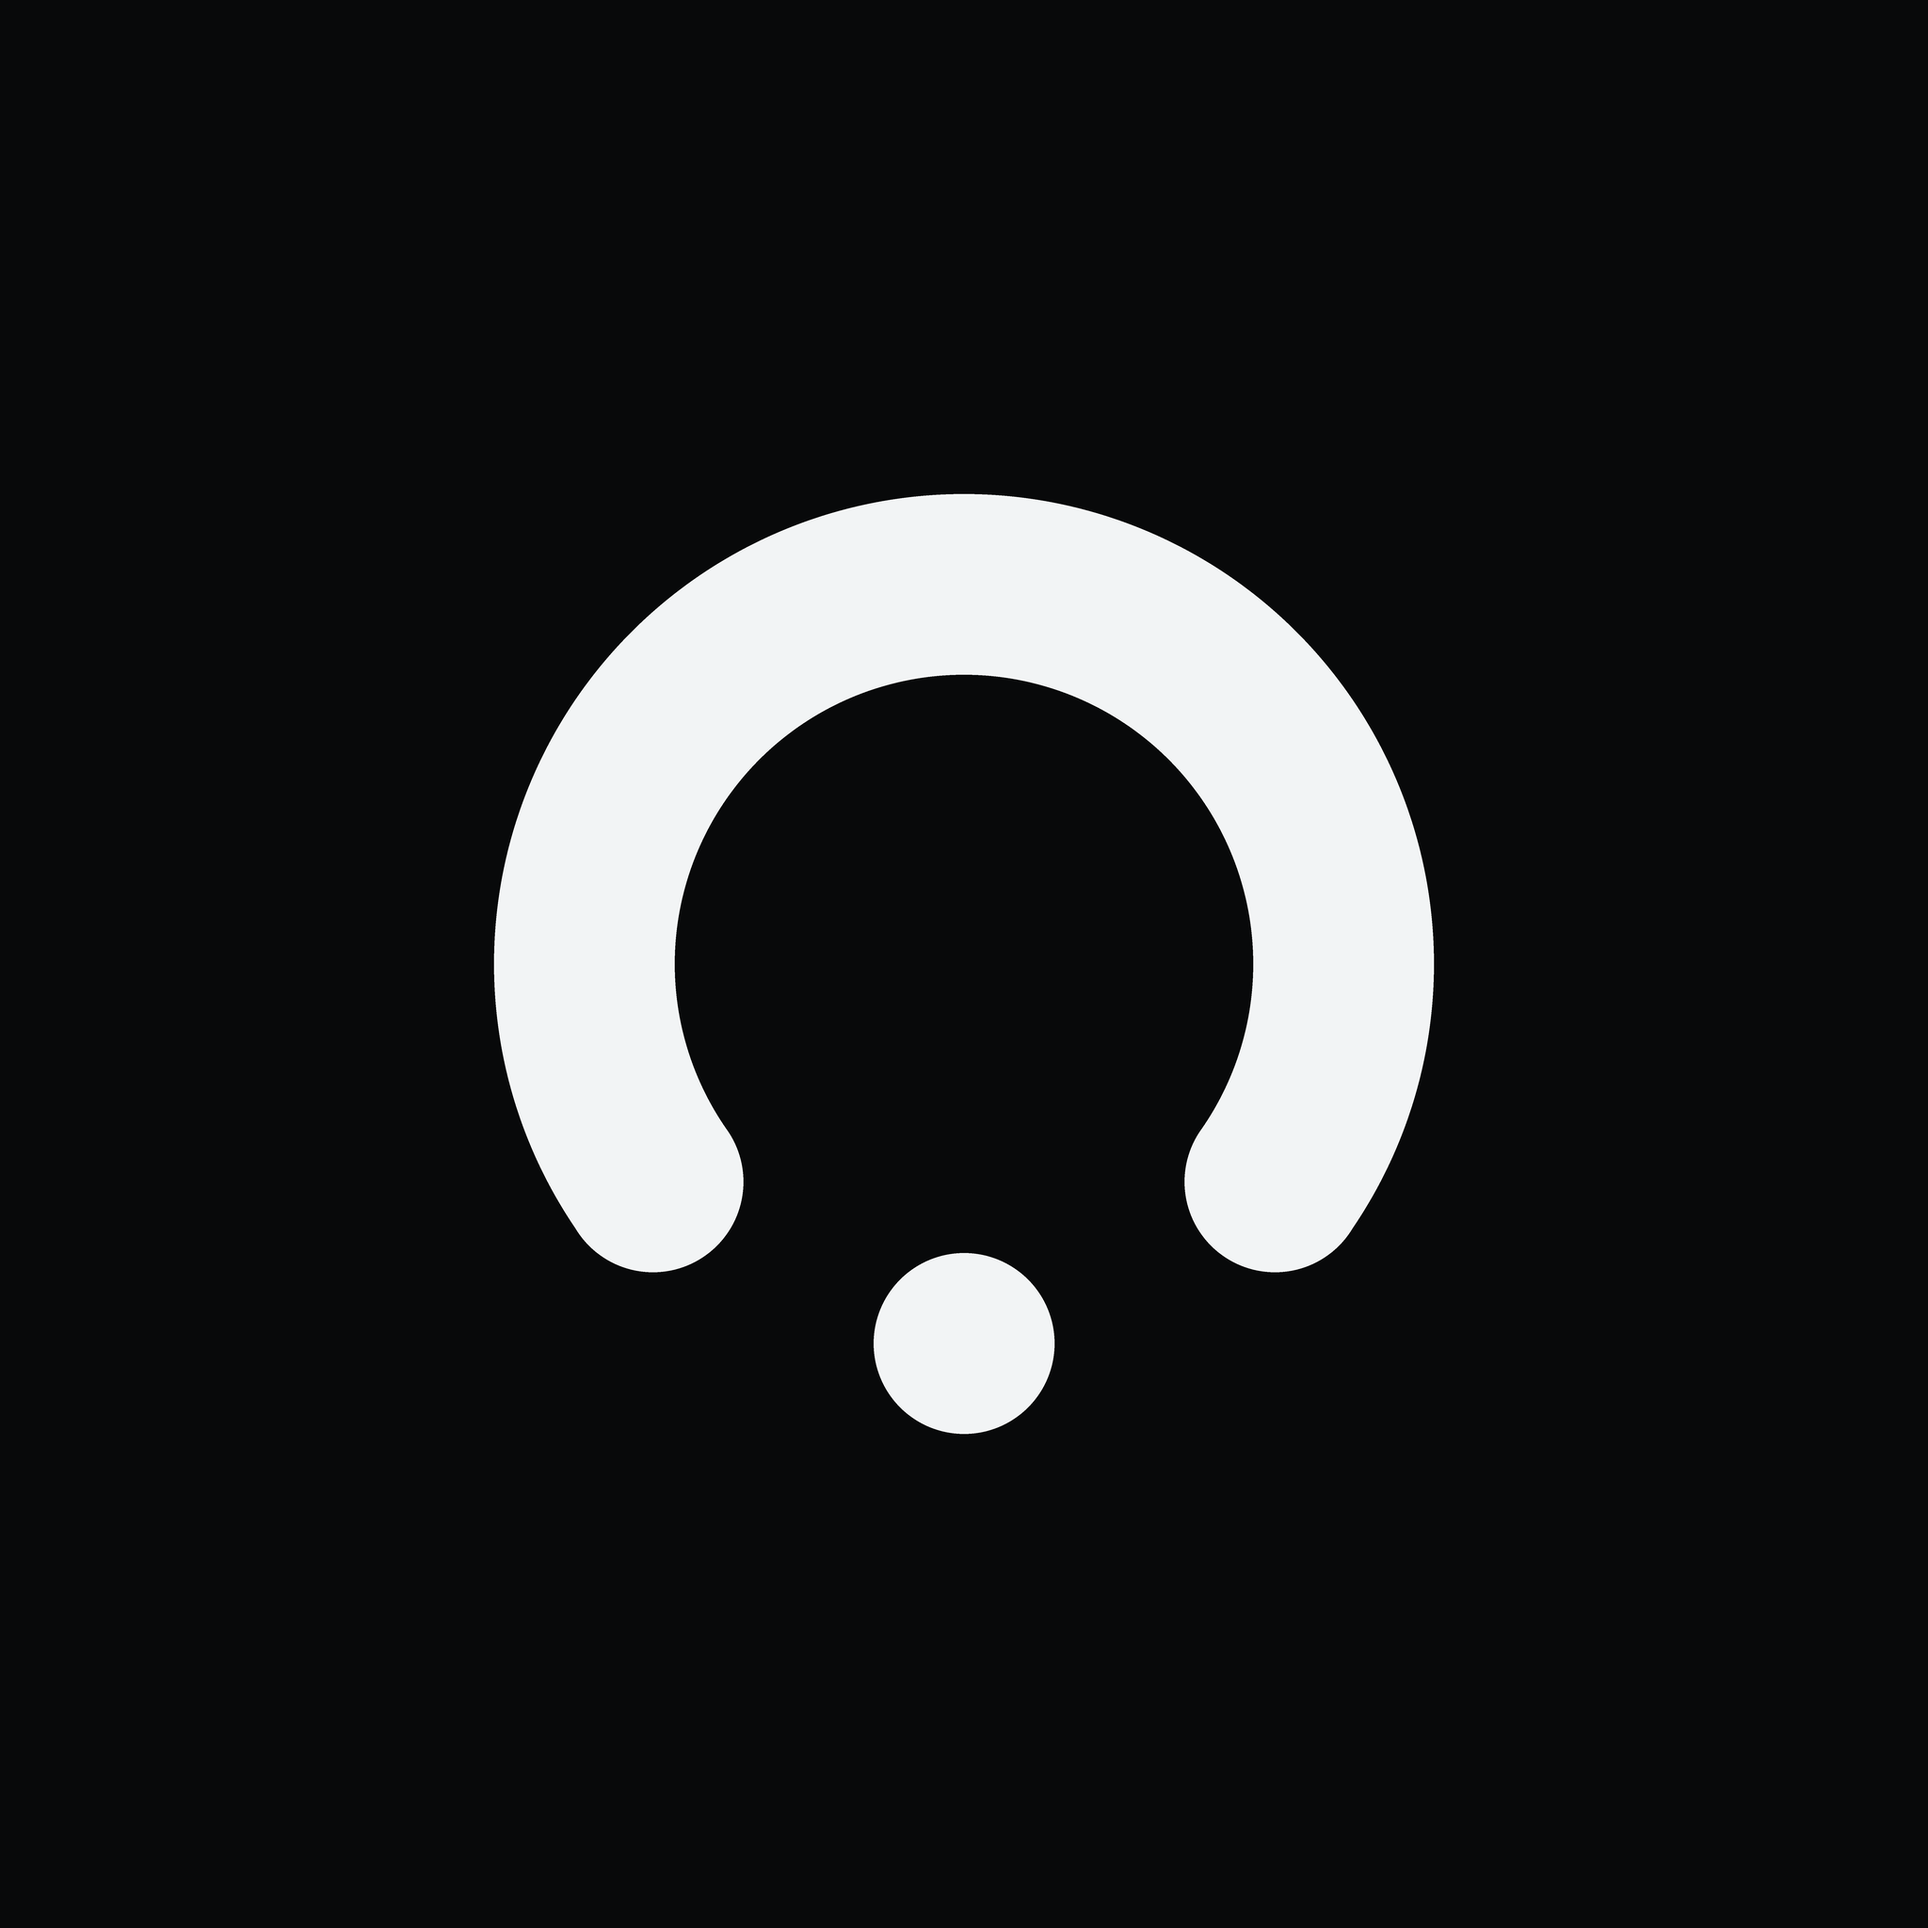
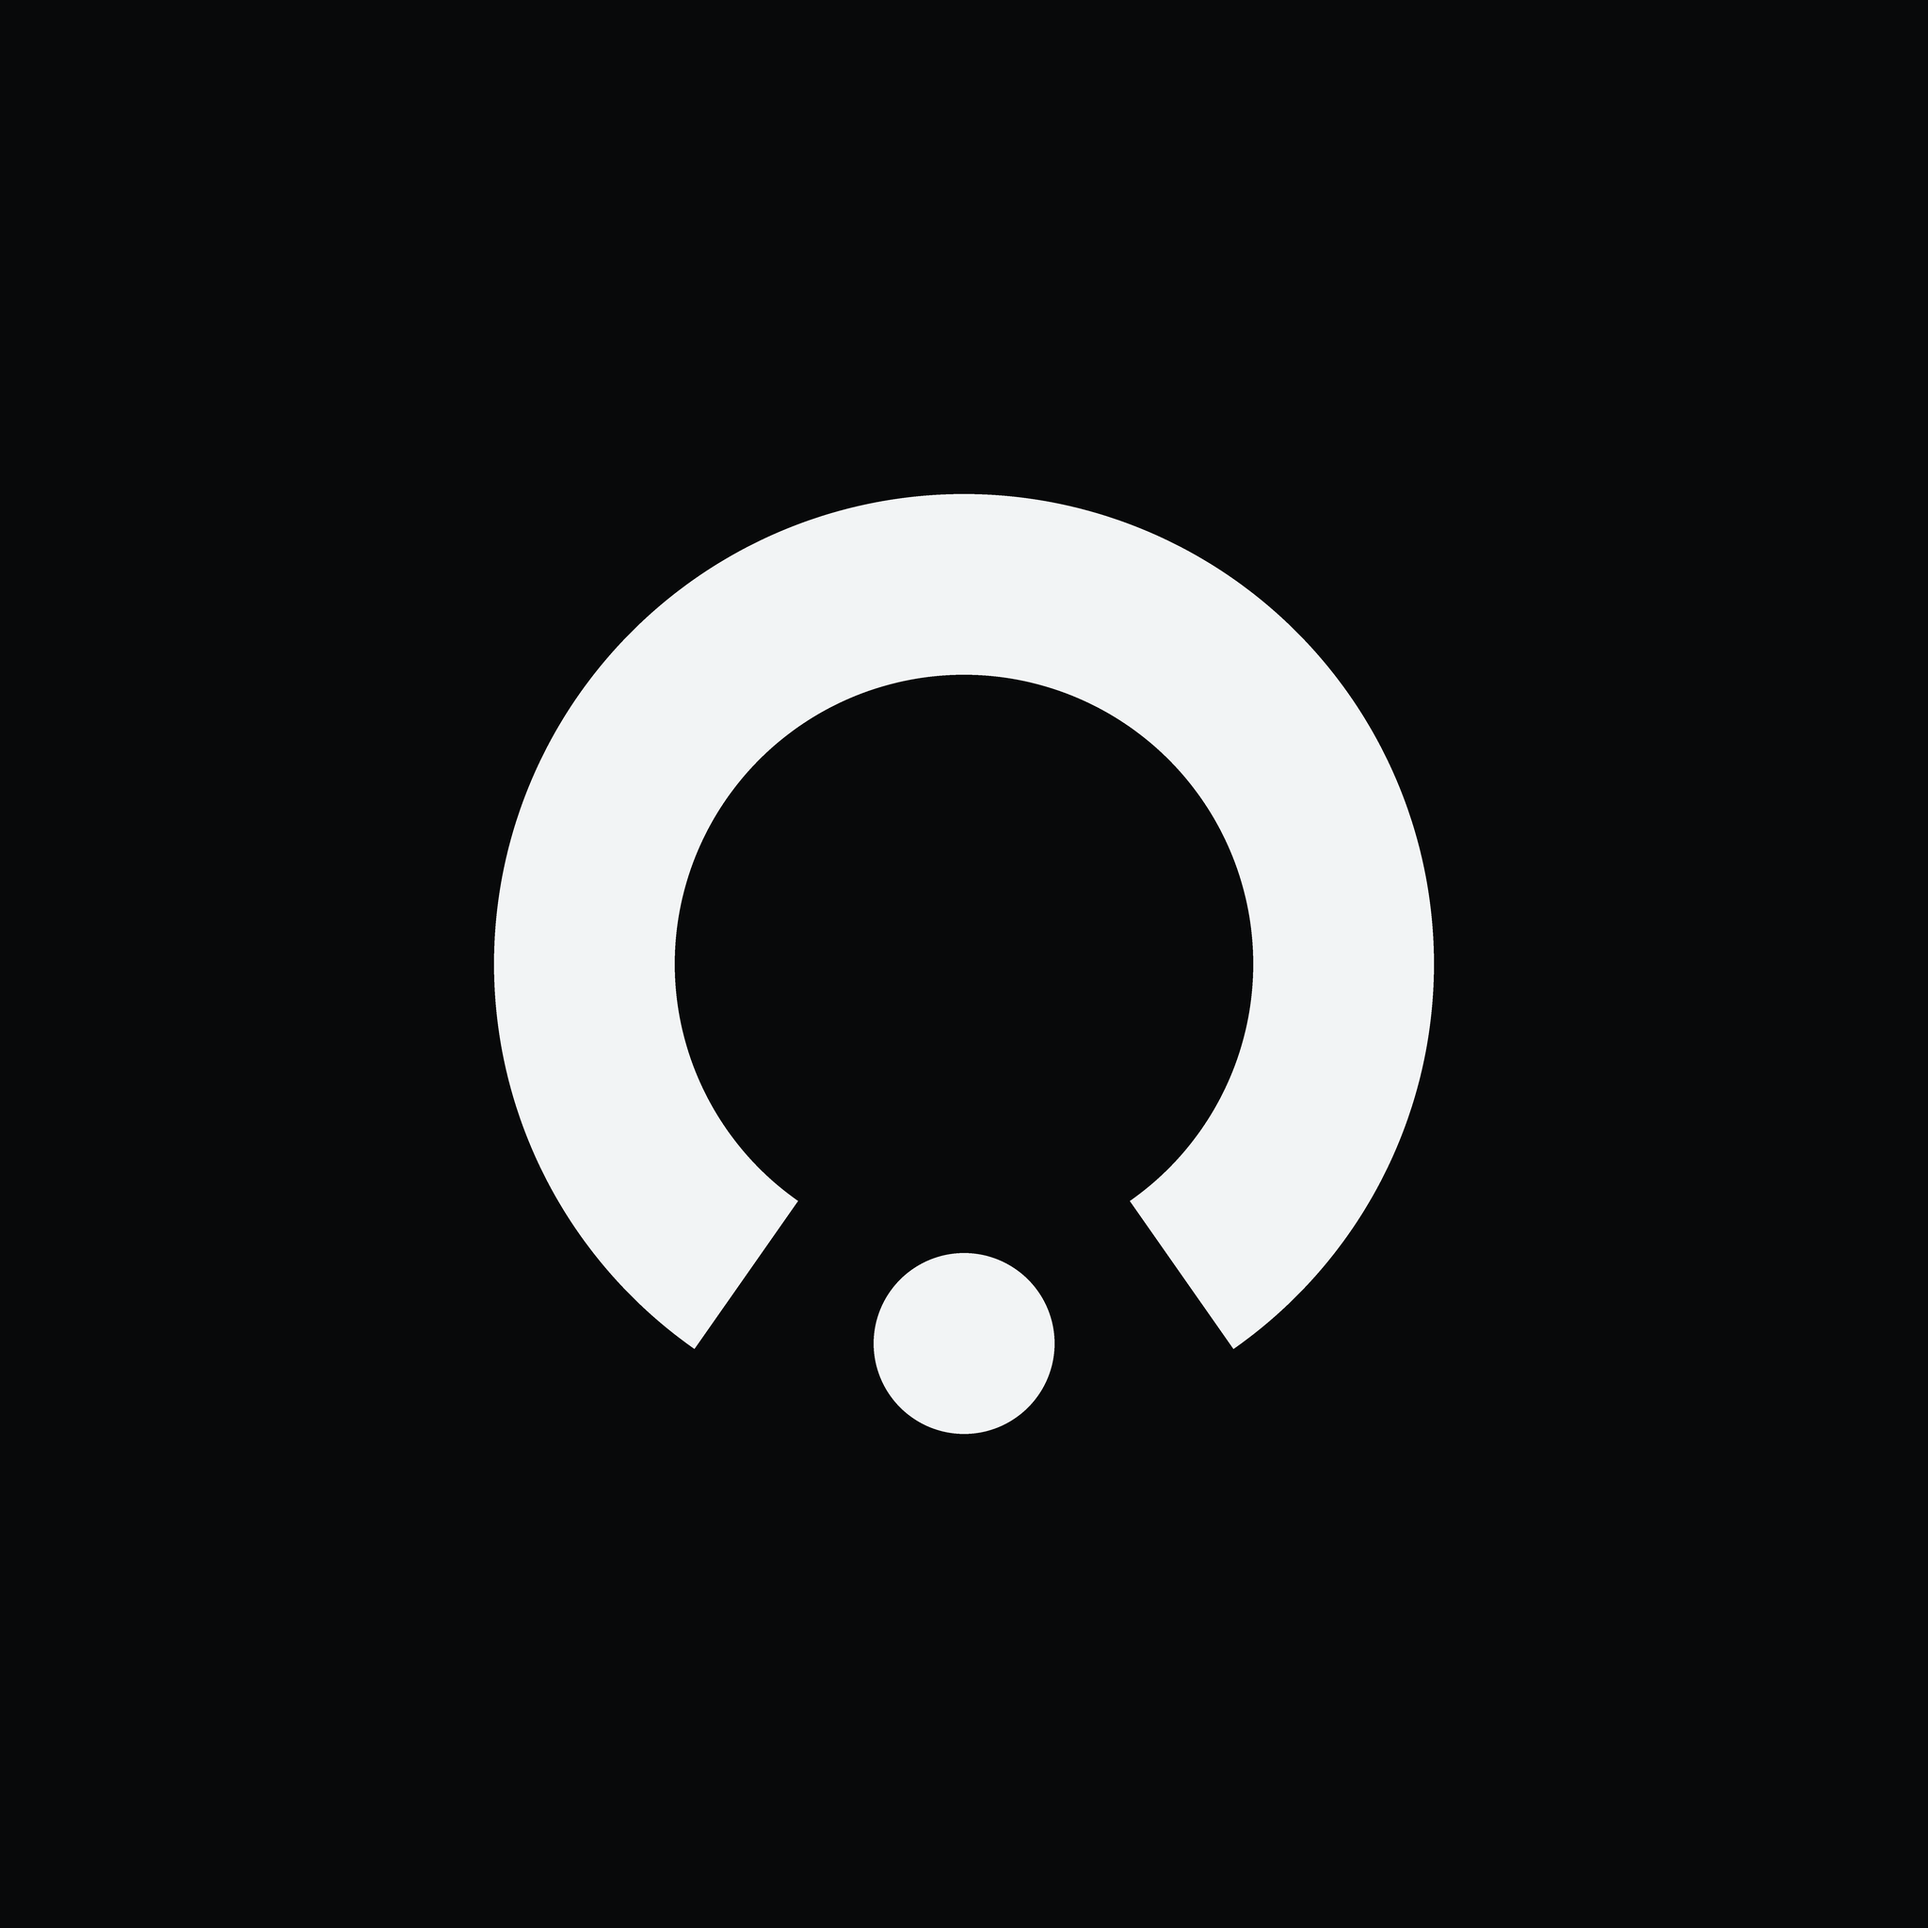
feat(brand): cut the mark's ends square and close the opening a little
The user preferred the look of an earlier raster draft: the ring runs
further round, leaving a 70 degree opening instead of 110, and its ends
are cut straight along the radius rather than rounded. Make that the
mark everywhere: the inline SVG, the browser tab icon, the brand SVGs,
and the redrawn favicon, apple icon, 1024 px square and X avatars.

The dot is unchanged, 7 units clear of each cut end. The rasters match
a browser render of the SVG to 8 of 160,000 pixels.

Changed region(s): [[0.5938, 0.5938, 0.6875, 0.7188], [0.3125, 0.5938, 0.4062, 0.7188]]

diff --git a/app/src/components/conduit-mark.tsx b/app/src/components/conduit-mark.tsx
@@ -1,14 +1,14 @@
 /**
- * Conduit's mark: a bold C turned to open downward, and a dot on the same
- * circle in its opening, the next step along the path. What you say goes out
- * through one channel.
+ * Conduit's mark: a bold ring open at the bottom, its ends cut square, and a
+ * dot on the same circle in the opening, the next step along the path. What
+ * you say goes out through one channel.
  *
  * Drawn in currentColor, so it takes the text color of wherever it sits and
  * follows the theme with no second image and no invert filter. The browser
  * tab icon (src/app/icon.svg) and the rendered icons in assets/brand/ use the
  * same geometry; change them together.
  */
-const MARK_PATH = "M49.2 44.05A21 21 0 1 0 14.8 44.05";
+const MARK_PATH = "M44.05 49.2A21 21 0 1 0 19.95 49.2";
 const MARK_DOT = { cx: 32, cy: 53, r: 5 } as const;
 
 export function ConduitMark({ className, title }: { className?: string; title?: string }) {
@@ -22,7 +22,7 @@ export function ConduitMark({ className, title }: { className?: string; title?: 
       focusable="false"
     >
       {title ? <title>{title}</title> : null}
-      <path d={MARK_PATH} fill="none" stroke="currentColor" strokeWidth={10} strokeLinecap="round" />
+      <path d={MARK_PATH} fill="none" stroke="currentColor" strokeWidth={10} strokeLinecap="butt" />
       <circle {...MARK_DOT} fill="currentColor" />
     </svg>
   );
